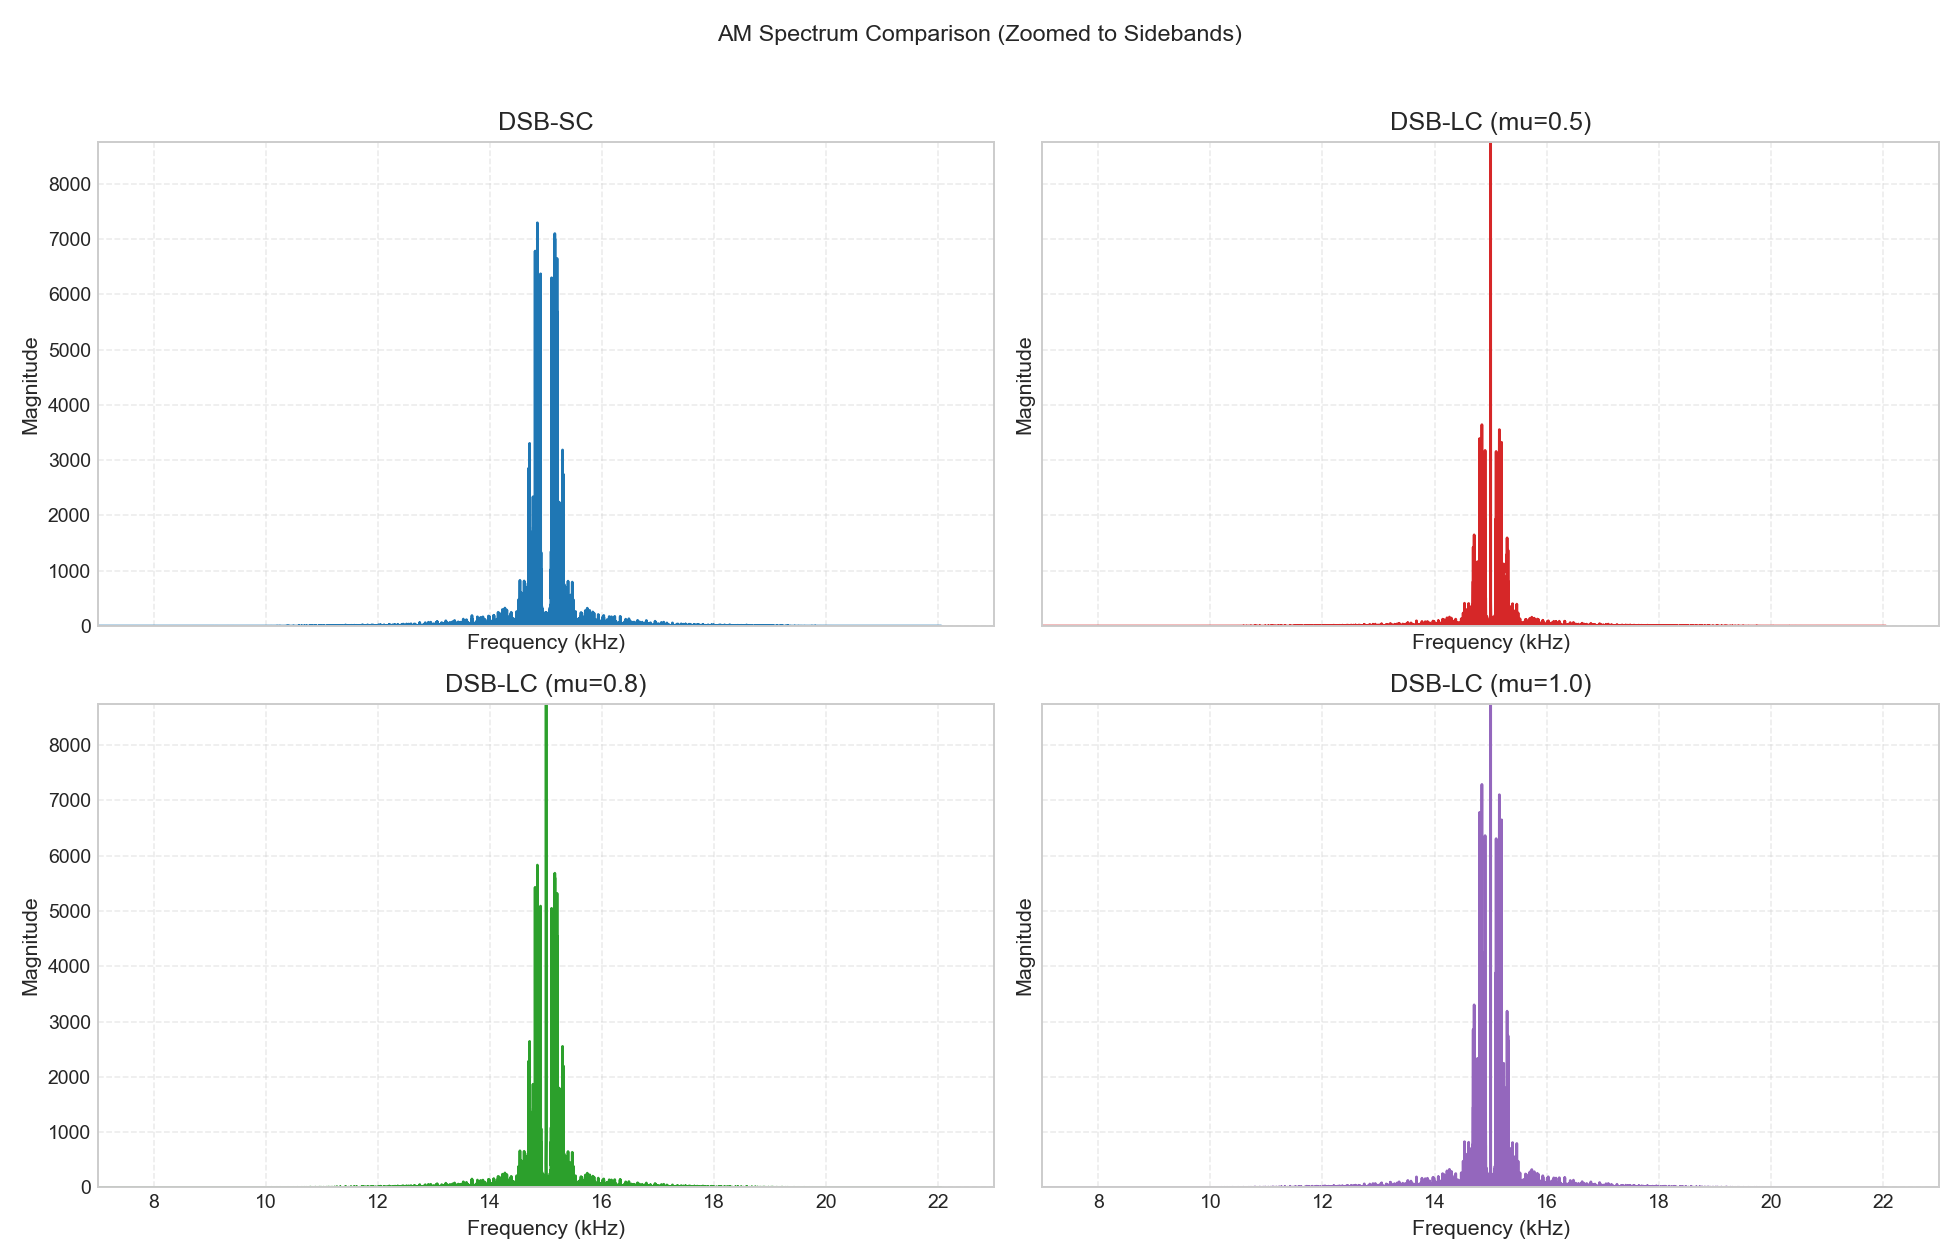
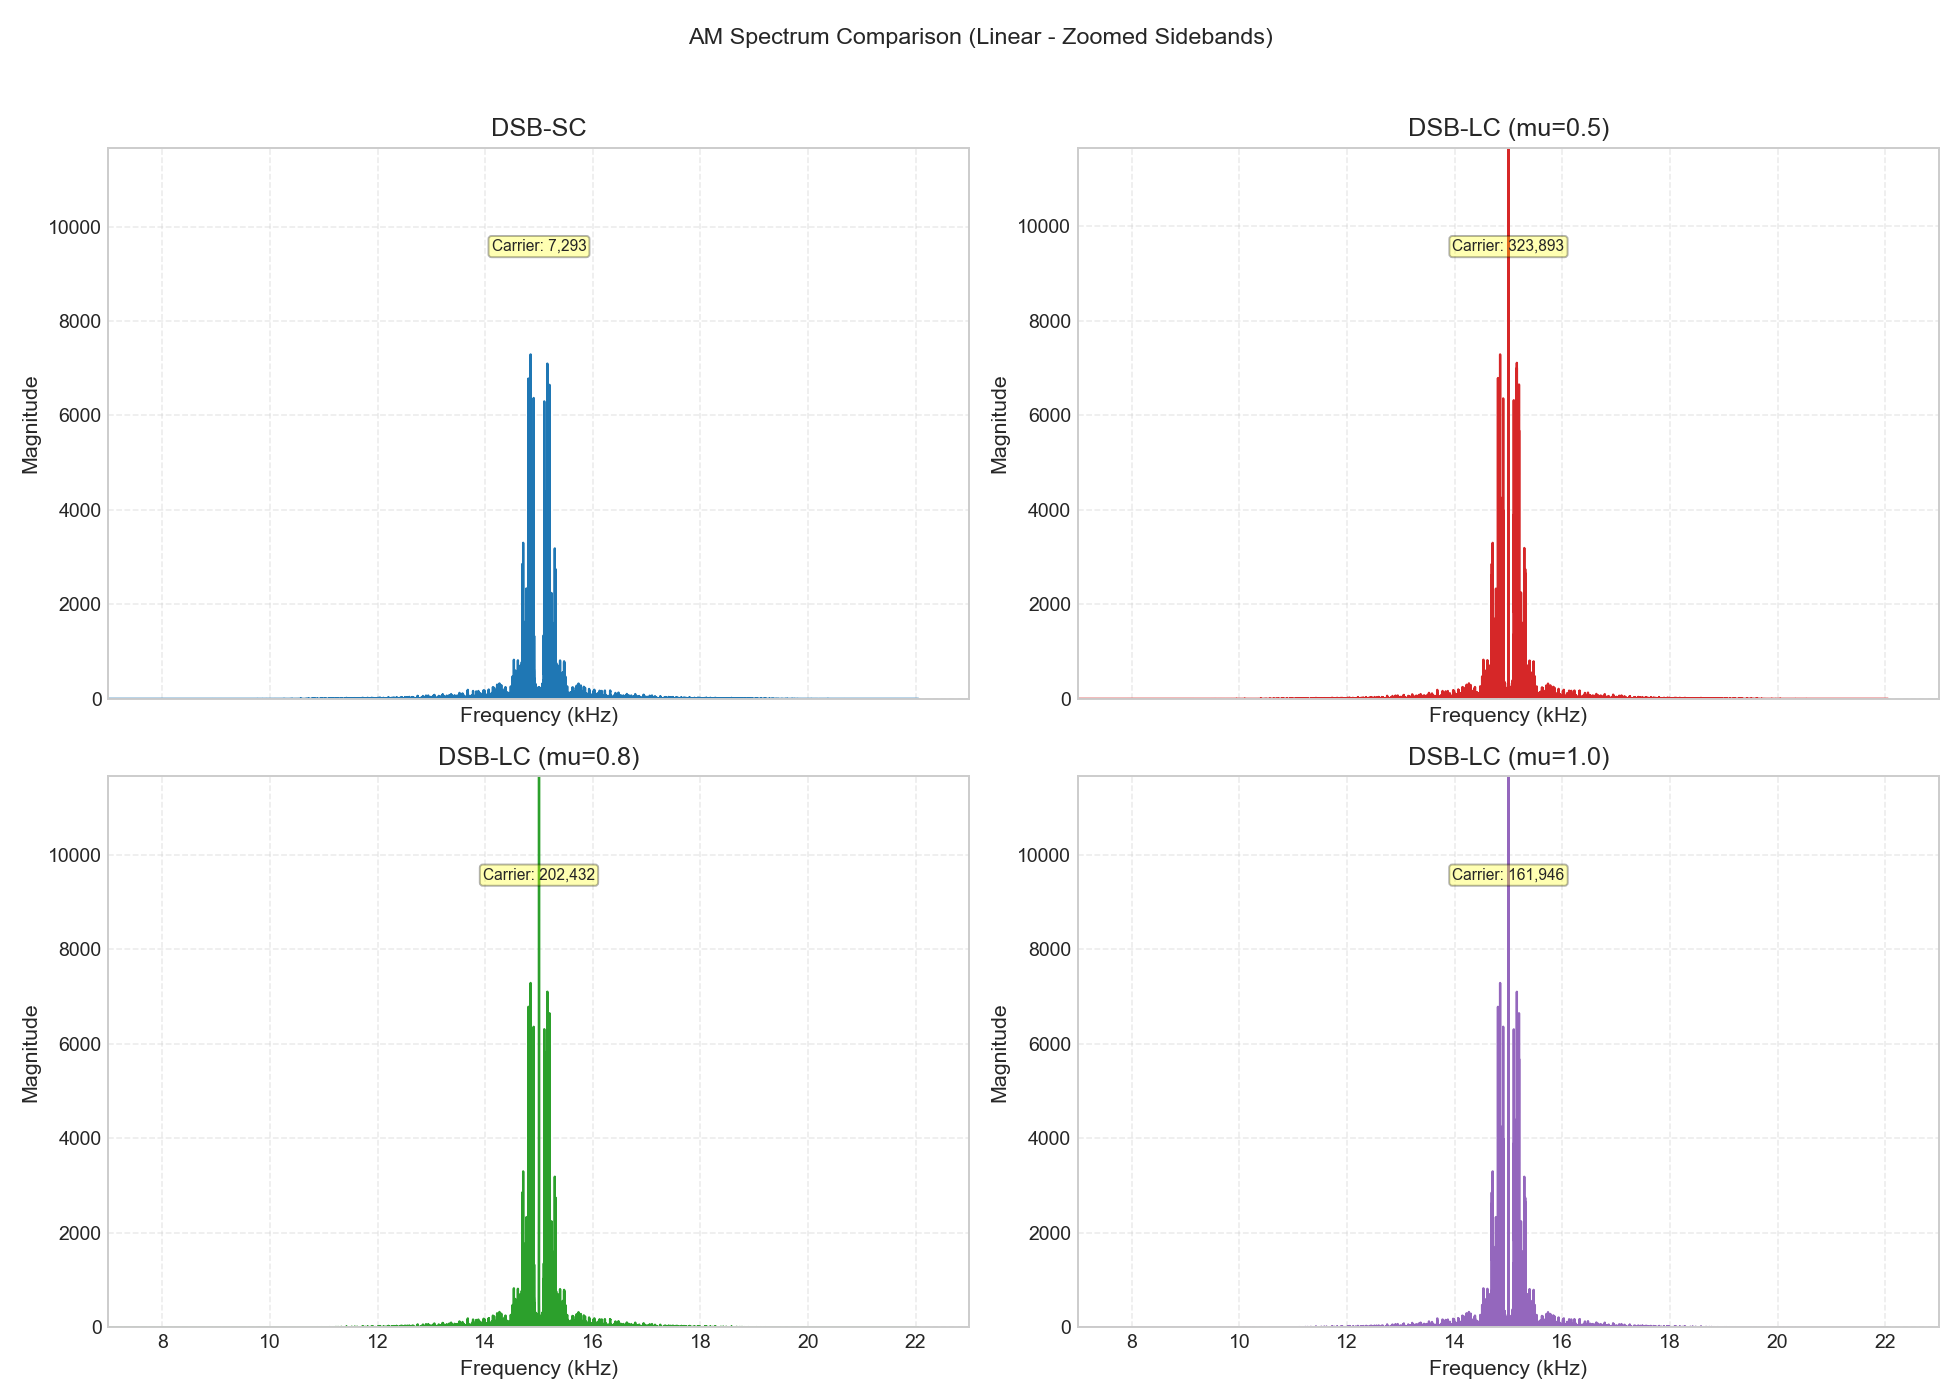
new edits

diff --git a/am_project_task1.py b/am_project_task1.py
@@ -1,0 +1,241 @@
+import numpy as np
+from scipy.io import wavfile
+from scipy.signal import butter, lfilter
+import matplotlib
+matplotlib.use('Agg')
+from matplotlib import pyplot as plt
+import os
+
+# --- Configuration ---
+file_path = 'van_wiese-bass-wiggle-297877.wav'
+output_dir = 'task1_results'
+if not os.path.exists(output_dir):
+    os.makedirs(output_dir)
+
+plt.style.use('seaborn-v0_8-whitegrid')
+plt.rcParams.update({
+    'figure.dpi': 140,
+    'savefig.dpi': 140,
+    'font.size': 10,
+    'axes.titlesize': 13,
+    'axes.labelsize': 11,
+    'legend.fontsize': 9,
+})
+
+# --- Functions ---
+
+def bandlimit_filter(signal, cutoff_freq, sample_rate, order=5):
+    nyquist = 0.5 * sample_rate
+    normal_cutoff = cutoff_freq / nyquist
+    b, a = butter(order, normal_cutoff, btype='low', analog=False)
+    return lfilter(b, a, signal)
+
+def estimate_99_power_bandwidth(signal, sample_rate):
+    n = len(signal)
+    freqs = np.fft.fftfreq(n, 1 / sample_rate)
+    fft_vals = np.fft.fft(signal)
+
+    positive_mask = freqs >= 0
+    positive_freqs = freqs[positive_mask]
+    positive_power = np.abs(fft_vals[positive_mask]) ** 2
+
+    cumulative_power = np.cumsum(positive_power)
+    total_power = cumulative_power[-1]
+
+    lower_index = np.searchsorted(cumulative_power, 0.005 * total_power)
+    upper_index = np.searchsorted(cumulative_power, 0.995 * total_power)
+    return positive_freqs[upper_index] - positive_freqs[lower_index]
+
+def save_spectrum_comparison(all_signals, sample_rate, center_frequency, output_path, use_db=False):
+    fig, axes = plt.subplots(2, 2, figsize=(14, 10), sharex=True)
+    axes = axes.ravel()
+    color_map = ['#1f77b4', '#d62728', '#2ca02c', '#9467bd']
+
+    for axis, (name, signal), color in zip(axes, all_signals.items(), color_map):
+        n = len(signal)
+        freqs = np.fft.fftfreq(n, 1 / sample_rate)
+        fft_vals = np.fft.fft(signal)
+
+        positive_mask = freqs >= 0
+        positive_freqs = freqs[positive_mask]
+        positive_magnitude = np.abs(fft_vals[positive_mask])
+
+        if use_db:
+            mag_plot = 20 * np.log10(positive_magnitude + 1e-9)
+            axis.plot(positive_freqs / 1000, mag_plot, color=color, linewidth=1.2)
+            axis.set_ylabel('Magnitude (dB)')
+        else:
+            axis.plot(positive_freqs / 1000, positive_magnitude, color=color, linewidth=1.2)
+            axis.set_ylabel('Magnitude')
+            
+            # Dynamic Zoom for Linear plots
+            sideband_mask = (positive_freqs < center_frequency - 100) | (positive_freqs > center_frequency + 100)
+            if np.any(sideband_mask):
+                max_sideband = np.max(positive_magnitude[sideband_mask])
+                axis.set_ylim(0, max_sideband * 1.6)
+                axis.annotate(f"Carrier: {np.max(positive_magnitude):,.0f}", 
+                             xy=(center_frequency/1000, max_sideband * 1.3),
+                             fontsize=8, ha='center', bbox=dict(boxstyle='round,pad=0.2', fc='yellow', alpha=0.3))
+
+        axis.set_title(name)
+        axis.set_xlim(center_frequency / 1000 - 8, center_frequency / 1000 + 8)
+        axis.grid(True, linestyle='--', alpha=0.4)
+        axis.set_xlabel('Frequency (kHz)')
+
+    fig.suptitle('AM Spectrum Comparison (' + ('dB Scale' if use_db else 'Linear - Zoomed Sidebands') + ')')
+    fig.tight_layout(rect=[0, 0, 1, 0.96])
+    fig.savefig(output_path)
+    plt.close(fig)
+
+# --- Main Execution ---
+
+# 1. Load and Normalize Audio
+fs, data = wavfile.read(file_path)
+if len(data.shape) > 1:
+    data = data[:, 0]  
+data = data.astype(float) / np.max(np.abs(data))
+duration = len(data) / fs
+print(f"File loaded: {duration:.2f} seconds, Sample Rate: {fs} Hz")
+
+# 2. Filtering
+filtered_audio = bandlimit_filter(data, 4000, fs)
+message_bandwidth_hz = estimate_99_power_bandwidth(filtered_audio, fs)
+transmitted_bandwidth_hz = 2 * message_bandwidth_hz
+
+# 3. Modulation Setup
+t = np.arange(len(data)) / fs
+fc = 15000 
+carrier = np.cos(2 * np.pi * fc * t)
+
+# DSB-SC
+dsb_sc = filtered_audio * carrier
+
+# DSB-LC with varying mu and Ac = abs(min(data))/mu
+mu_values = [0.5, 0.8, 1.0]
+all_signals = {'DSB-SC': dsb_sc}
+
+min_val = np.abs(np.min(filtered_audio))
+print(f"Minimum message value (absolute): {min_val:.4f}")
+
+for mu in mu_values:
+    Ac = min_val / mu
+    all_signals[f'DSB-LC (mu={mu})'] = (Ac + filtered_audio) * carrier
+    print(f"For mu={mu}, Carrier Amplitude Ac={Ac:.4f}")
+
+# 4. Visualization and Bandwidth Analysis
+results_bw = {}
+zoom_duration = 0.05
+zoom_samples = int(zoom_duration * fs)
+start_sample = int(len(data) // 2)
+end_sample = start_sample + zoom_samples
+
+for name, signal in all_signals.items():
+    # Frequency Domain
+    n = len(signal)
+    freqs = np.fft.fftfreq(n, 1/fs)
+    fft_vals = np.fft.fft(signal)
+    
+    mask = freqs >= 0
+    f_pos = freqs[mask]
+    mag_pos = np.abs(fft_vals[mask])
+    
+    bw = transmitted_bandwidth_hz
+    results_bw[name] = bw
+    
+    # --- Combined Spectrum Plot (Linear and dB) ---
+    fig, (ax1, ax2) = plt.subplots(2, 1, figsize=(10, 10))
+    
+    # 1. Linear Plot (Zoomed)
+    ax1.plot(f_pos / 1000, mag_pos, color='#1f77b4', linewidth=1.6)
+    ax1.set_title(f"Frequency Spectrum (Linear): {name}\n99% Power BW: {bw/1000:.2f} kHz")
+    ax1.set_xlabel("Frequency (kHz)")
+    ax1.set_ylabel("Magnitude")
+    ax1.set_xlim(fc/1000 - 8, fc/1000 + 8)
+    
+    # Dynamic Zoom: Find max magnitude in sidebands to set Y-limit
+    # Mask out the carrier spike (fc +/- 100 Hz)
+    sideband_mask = (f_pos < fc - 100) | (f_pos > fc + 100)
+    if np.any(sideband_mask):
+        max_sideband = np.max(mag_pos[sideband_mask])
+        ax1.set_ylim(0, max_sideband * 1.5)
+        ax1.annotate(f"Carrier spike truncated\n(Full height: {np.max(mag_pos):,.0f})", 
+                     xy=(fc/1000, max_sideband * 1.2), 
+                     xytext=(fc/1000 + 2, max_sideband * 1.4),
+                     arrowprops=dict(facecolor='black', shrink=0.05, width=1, headwidth=5))
+
+    ax1.grid(True, linestyle='--', alpha=0.4)
+
+    # 2. dB Plot
+    mag_db = 20 * np.log10(mag_pos + 1e-9)
+    ax2.plot(f_pos / 1000, mag_db, color='#d62728', linewidth=1.4)
+    ax2.set_title(f"Frequency Spectrum (dB): {name}")
+    ax2.set_xlabel("Frequency (kHz)")
+    ax2.set_ylabel("Magnitude (dB)")
+    ax2.set_xlim(fc/1000 - 10, fc/1000 + 10)
+    ax2.grid(True, linestyle='--', alpha=0.4)
+    
+    plt.tight_layout()
+    plt.savefig(os.path.join(output_dir, f"{name.replace('=', '_').replace(' ', '_')}_Spectrum_Combined.png"))
+    plt.close()
+
+    # Time Domain Plot
+    plt.figure(figsize=(10, 6))
+    t_zoom = t[start_sample:end_sample] * 1000 
+    plt.plot(t_zoom, signal[start_sample:end_sample], color='#ff7f0e', linewidth=1.6)
+    plt.title(f"Time Domain Waveform (50ms): {name}")
+    plt.xlabel("Time (ms)")
+    plt.ylabel("Amplitude")
+    plt.grid(True, linestyle='--', alpha=0.4)
+    plt.tight_layout()
+    plt.savefig(os.path.join(output_dir, f"{name.replace('=', '_').replace(' ', '_')}_TimeDomain.png"))
+    plt.close()
+
+# --- Generate Final Comparison Plots ---
+# 1. Linear Scale (Zoomed on sidebands)
+save_spectrum_comparison(all_signals, fs, fc, os.path.join(output_dir, 'spectrum_comparison.png'), use_db=False)
+
+# 2. dB Scale
+save_spectrum_comparison(all_signals, fs, fc, os.path.join(output_dir, 'spectrum_comparison_db.png'), use_db=True)
+
+# 5. Analysis Table
+results_data = []
+for name, signal in all_signals.items():
+    n = len(signal)
+    fft_vals = np.fft.fft(signal)
+    mag = np.abs(fft_vals) / n
+    total_power = np.sum(mag**2)
+    
+    freqs = np.fft.fftfreq(n, 1/fs)
+    fc_idx = np.argmin(np.abs(np.abs(freqs) - fc))
+    carrier_power = np.sum(mag[fc_idx-2:fc_idx+3]**2) if 'LC' in name else 0
+    sideband_power = total_power - carrier_power
+    efficiency = (sideband_power / total_power) * 100
+    
+    results_data.append({
+        'name': name,
+        'bw': transmitted_bandwidth_hz / 1000,
+        'efficiency': efficiency,
+        'total_p': total_power
+    })
+
+header = f"{'Modulation Type':<25} | {'99% BW (kHz)':<15} | {'Efficiency (%)':<15}\n"
+separator = "-" * 60 + "\n"
+table_content = "\n--- Detailed Modulation Analysis ---\n" + header + separator
+for item in results_data:
+    table_content += f"{item['name']:<25} | {item['bw']:<15.2f} | {item['efficiency']:<15.2f}\n"
+
+print(table_content)
+with open(os.path.join(output_dir, 'detailed_results.txt'), 'w') as f:
+    f.write(table_content)
+
+# Bandwidth Comparison Table
+bw_table = "\n--- Bandwidth Comparison Table ---\n"
+bw_table += f"{'Modulation Type':<25} | {'99% BW (kHz)':<15}\n"
+bw_table += "-" * 45 + "\n"
+for item in results_data:
+    bw_table += f"{item['name']:<25} | {item['bw']:<15.2f}\n"
+
+with open(os.path.join(output_dir, 'bandwidth_results.txt'), 'w') as f:
+    f.write(bw_table)
+
+print(f"\nTask 1 finished. Results saved in '{output_dir}'.")
